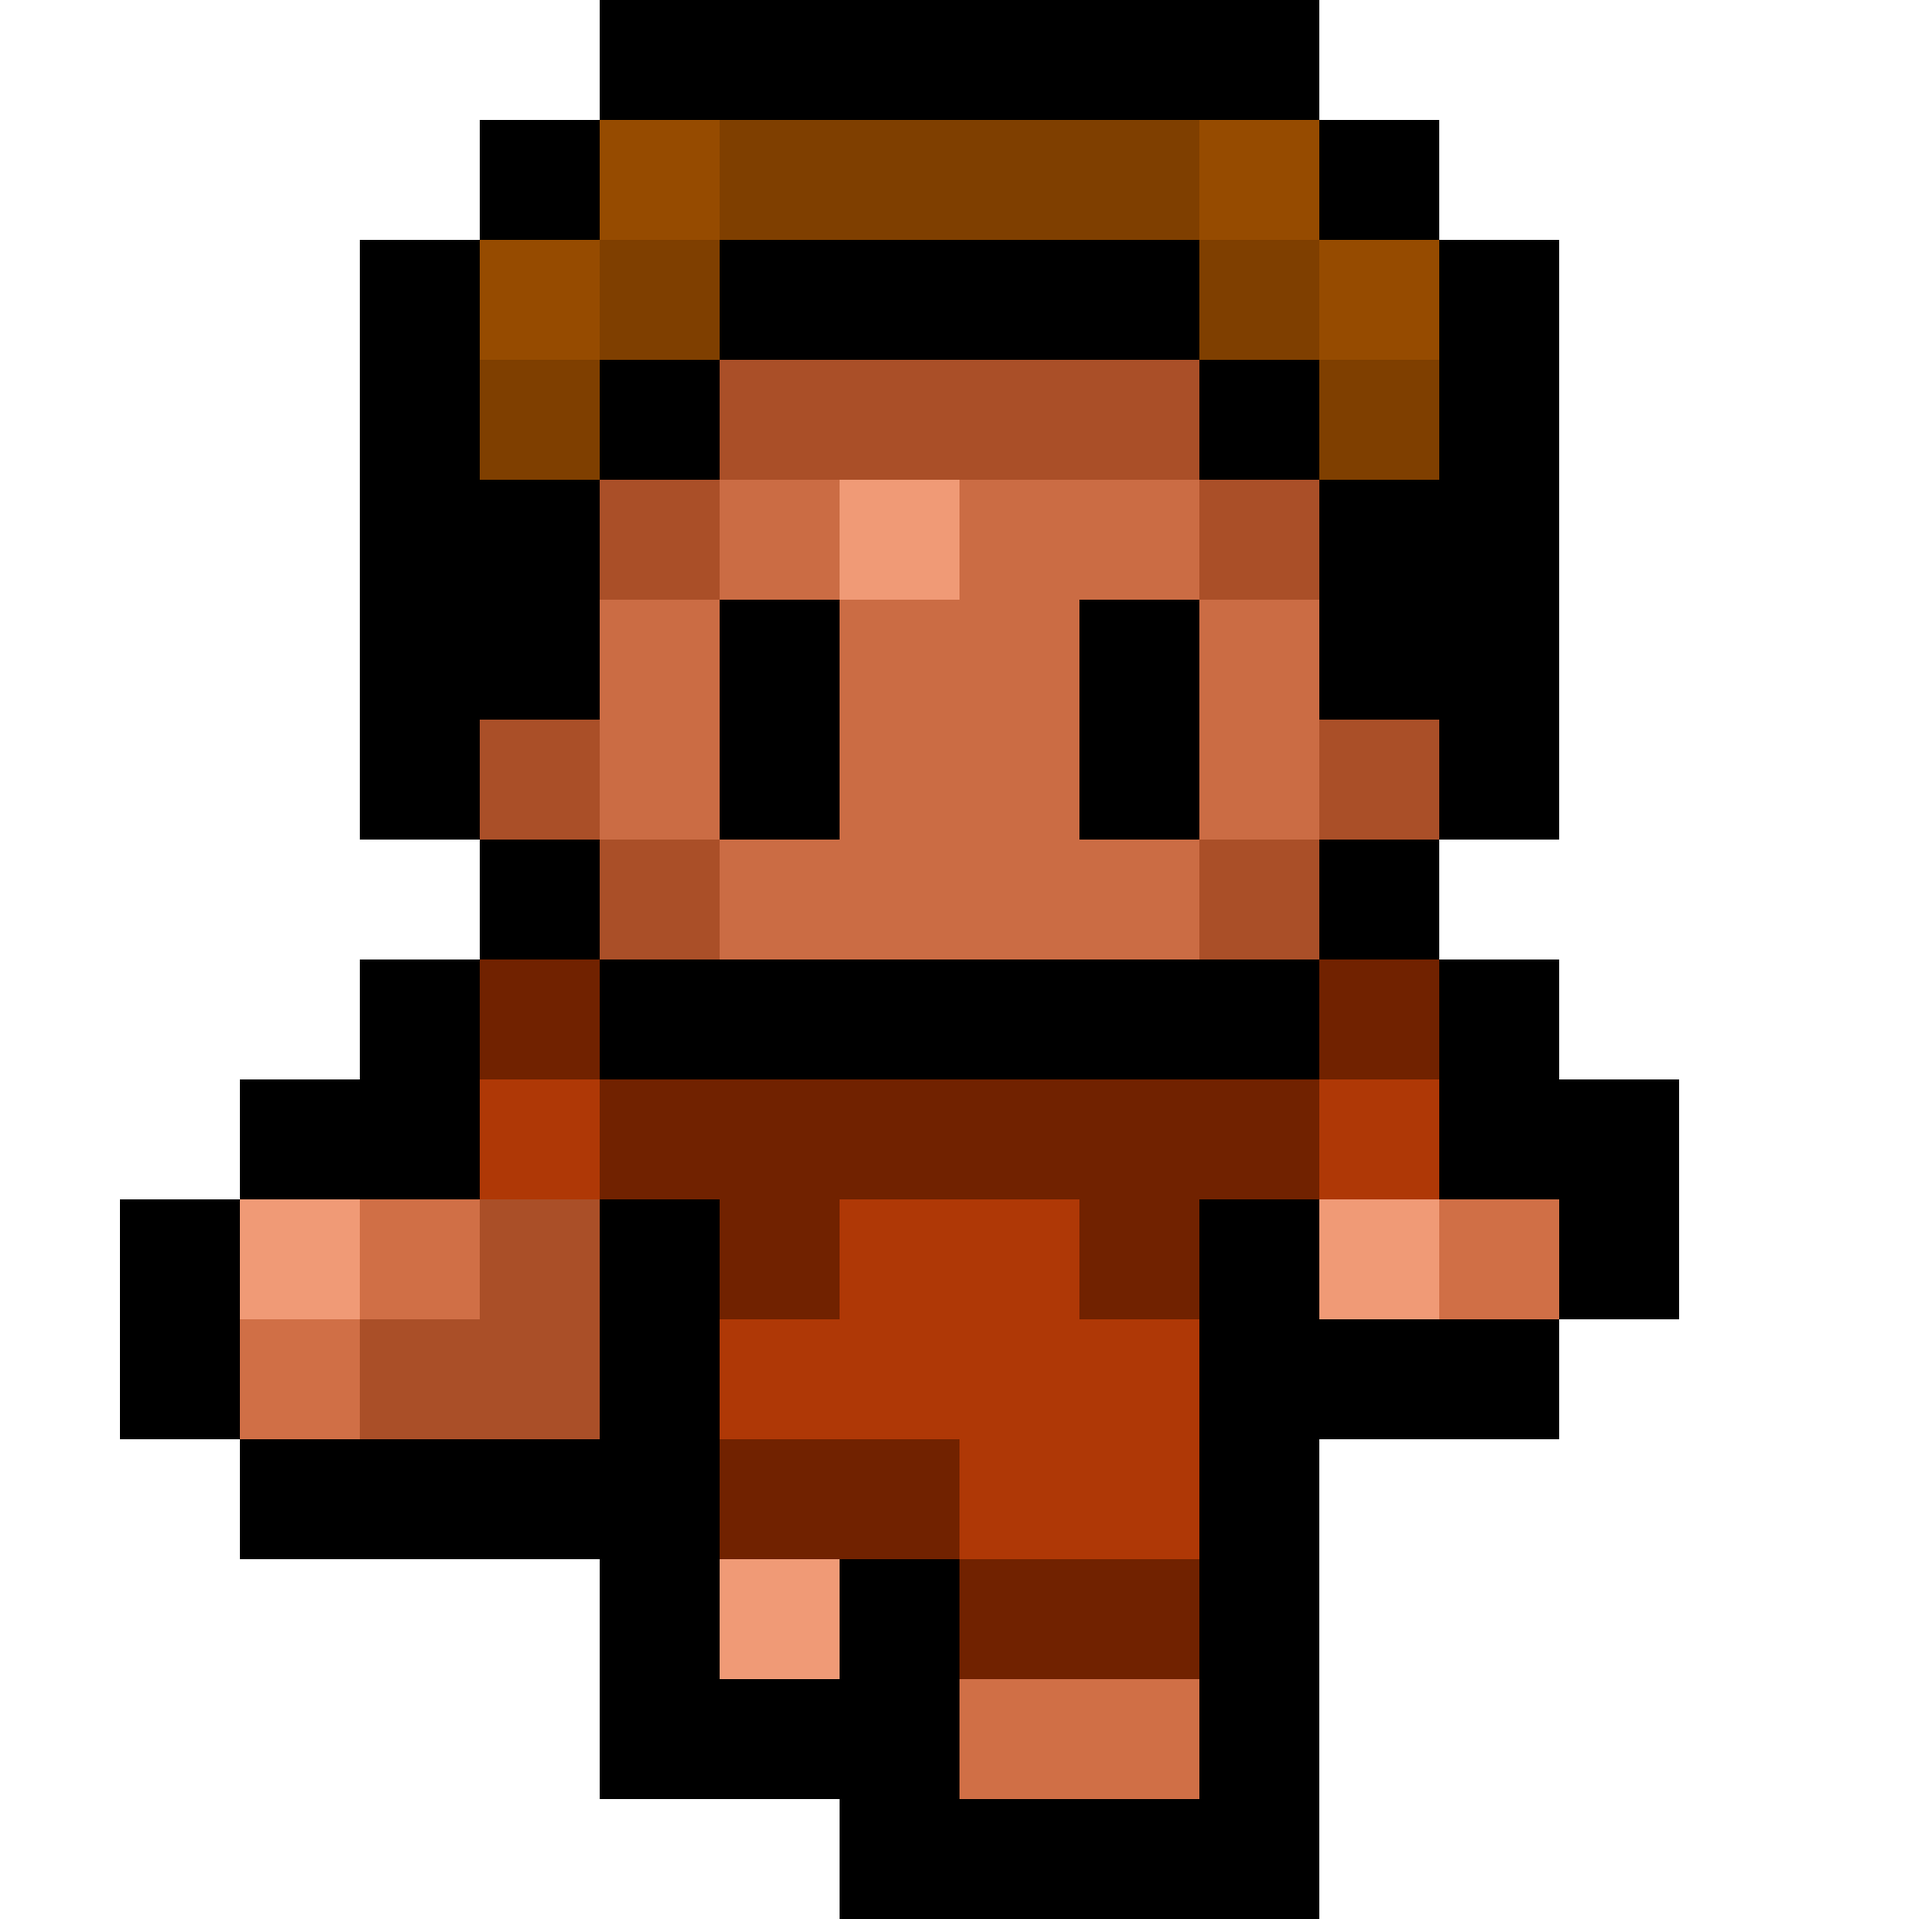
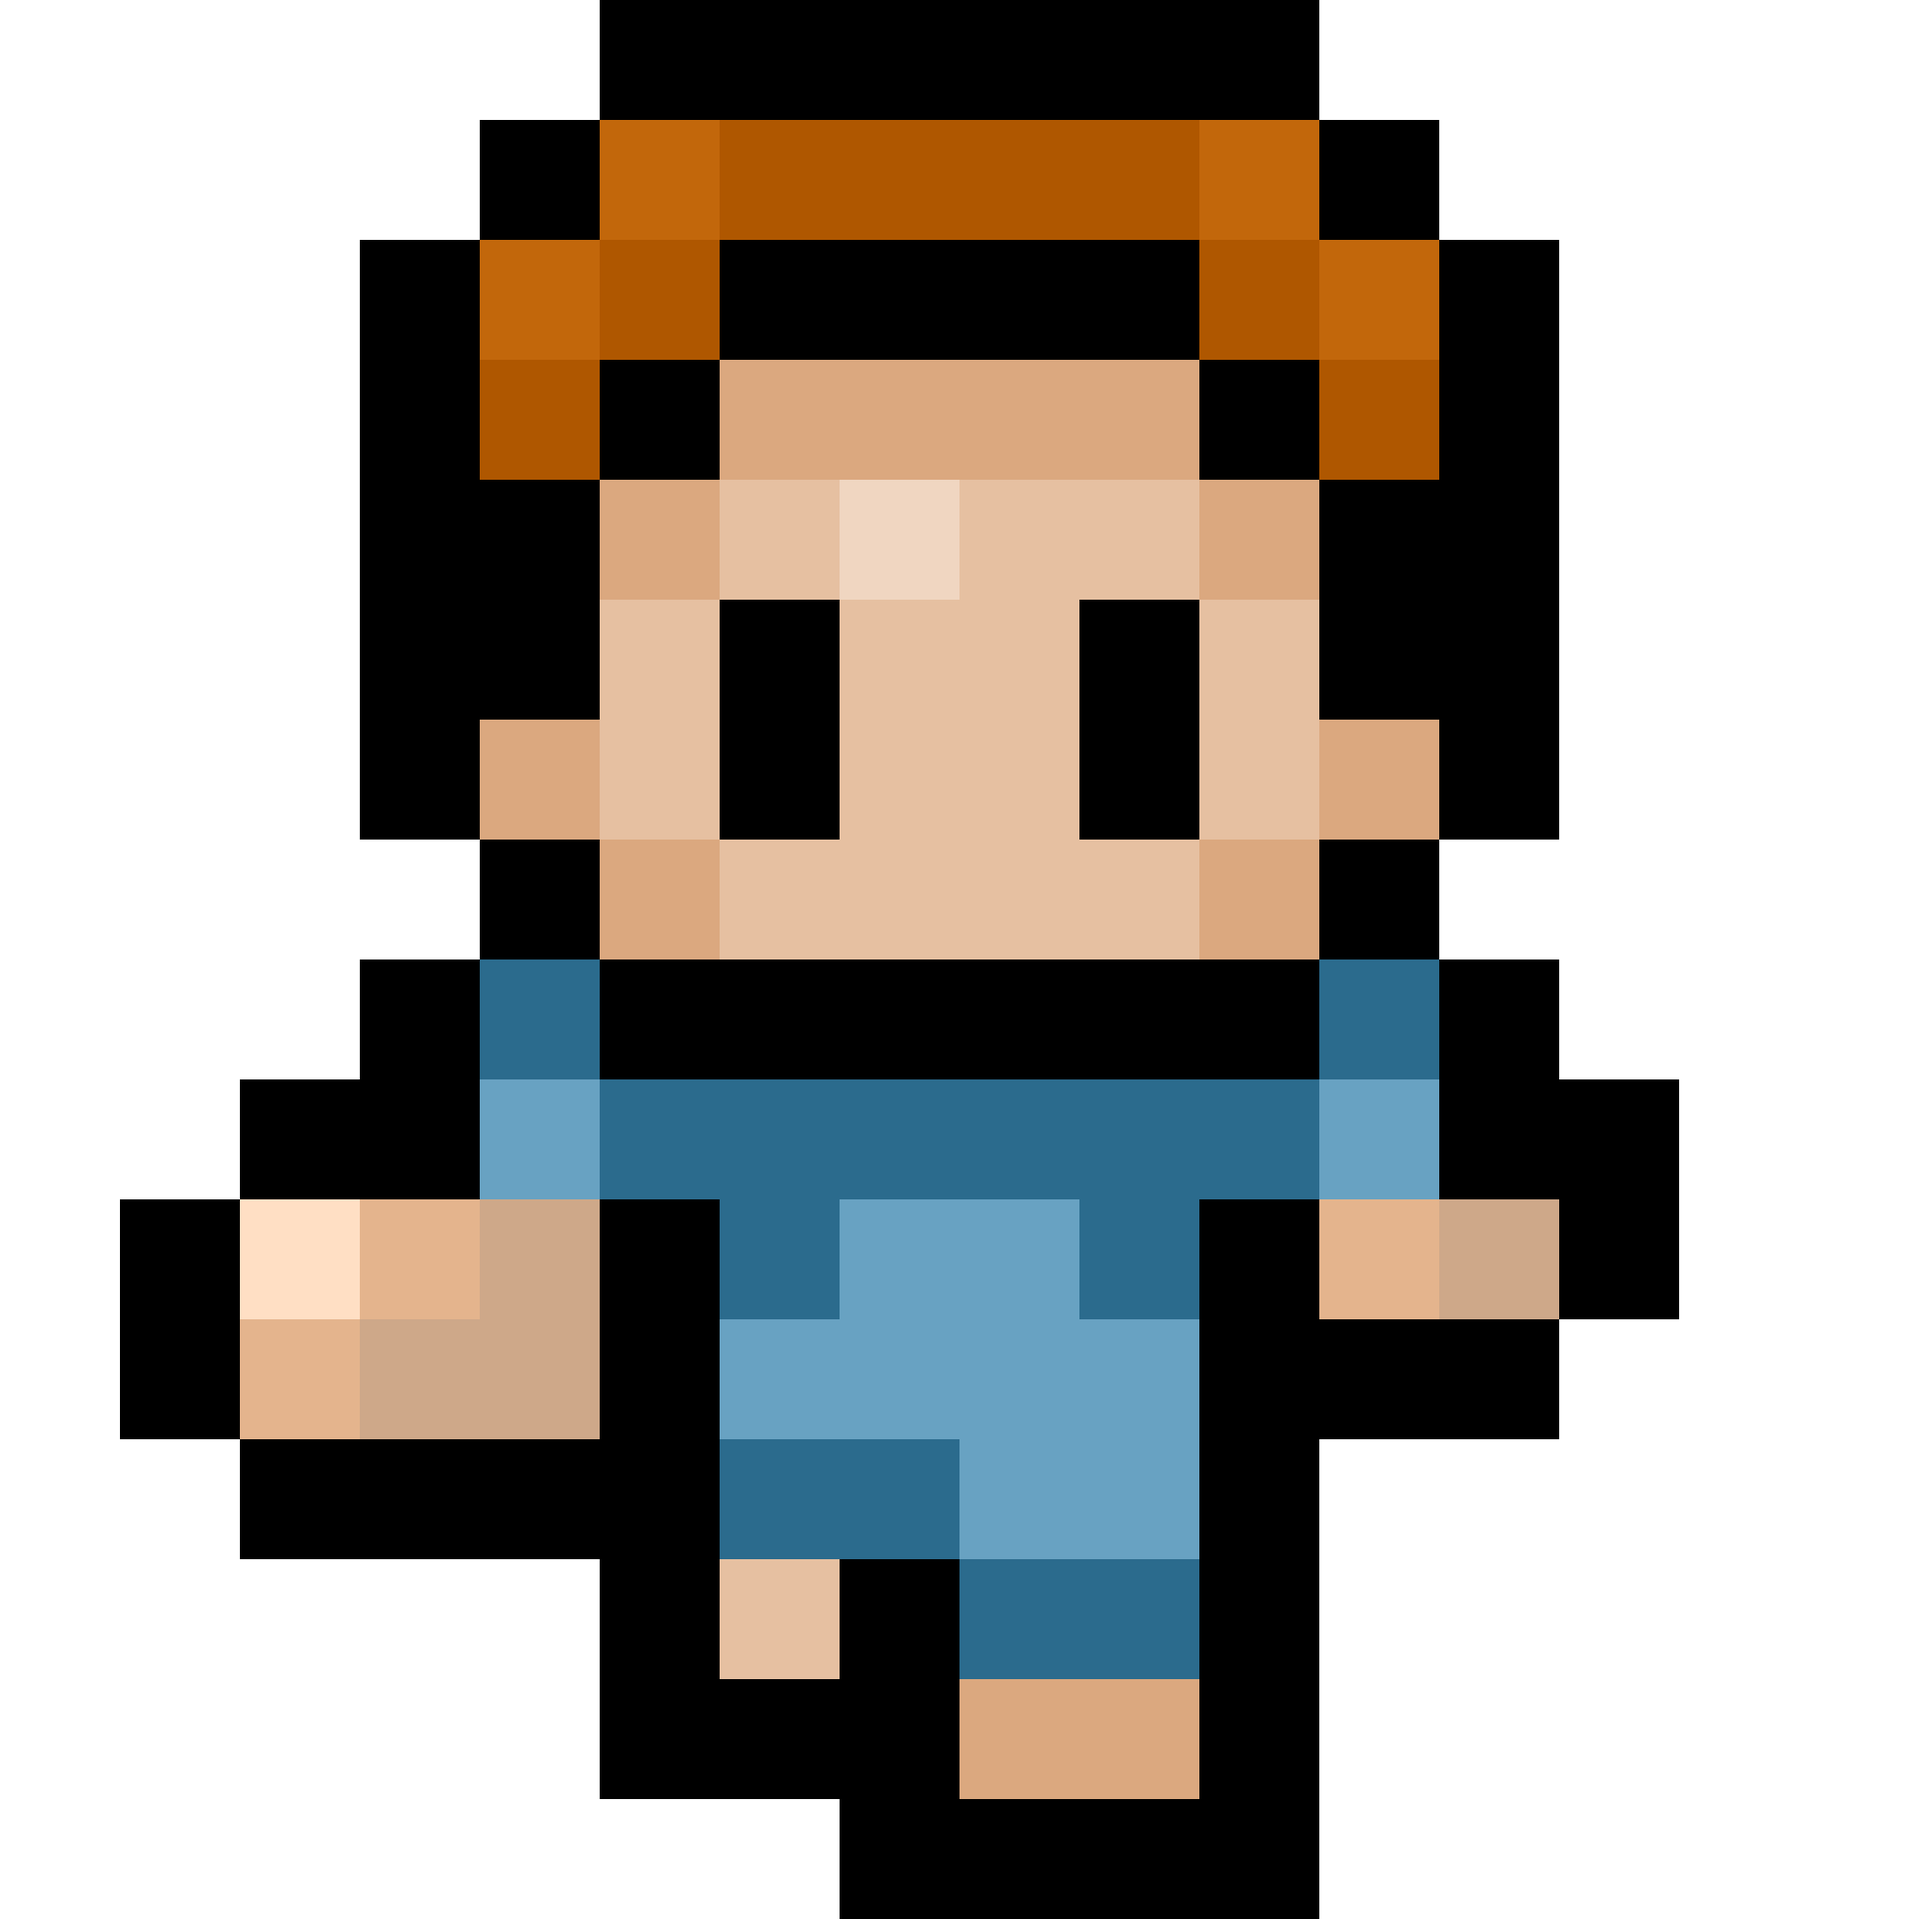
zmiana grafiki idle oraz walk, usuniecie tempo1 i tempo2

Changed region(s): [[0.125, 0.5, 0.8125, 0.9375], [0.25, 0.1875, 0.75, 0.5], [0.25, 0.0625, 0.75, 0.25]]

diff --git a/ZEGgame/styles/style.css b/ZEGgame/styles/style.css
@@ -1,5 +1,5 @@
 /* Import czcionki pixel-art */
-@import url('https://fonts.googleapis.com/css2?family=Press+Start+2P&display=swap');
+@import url('https://fonts.googleapis.com/css2?family=Tiny5&display=swap');
 
 /* Reset i podstawy */
 * {
